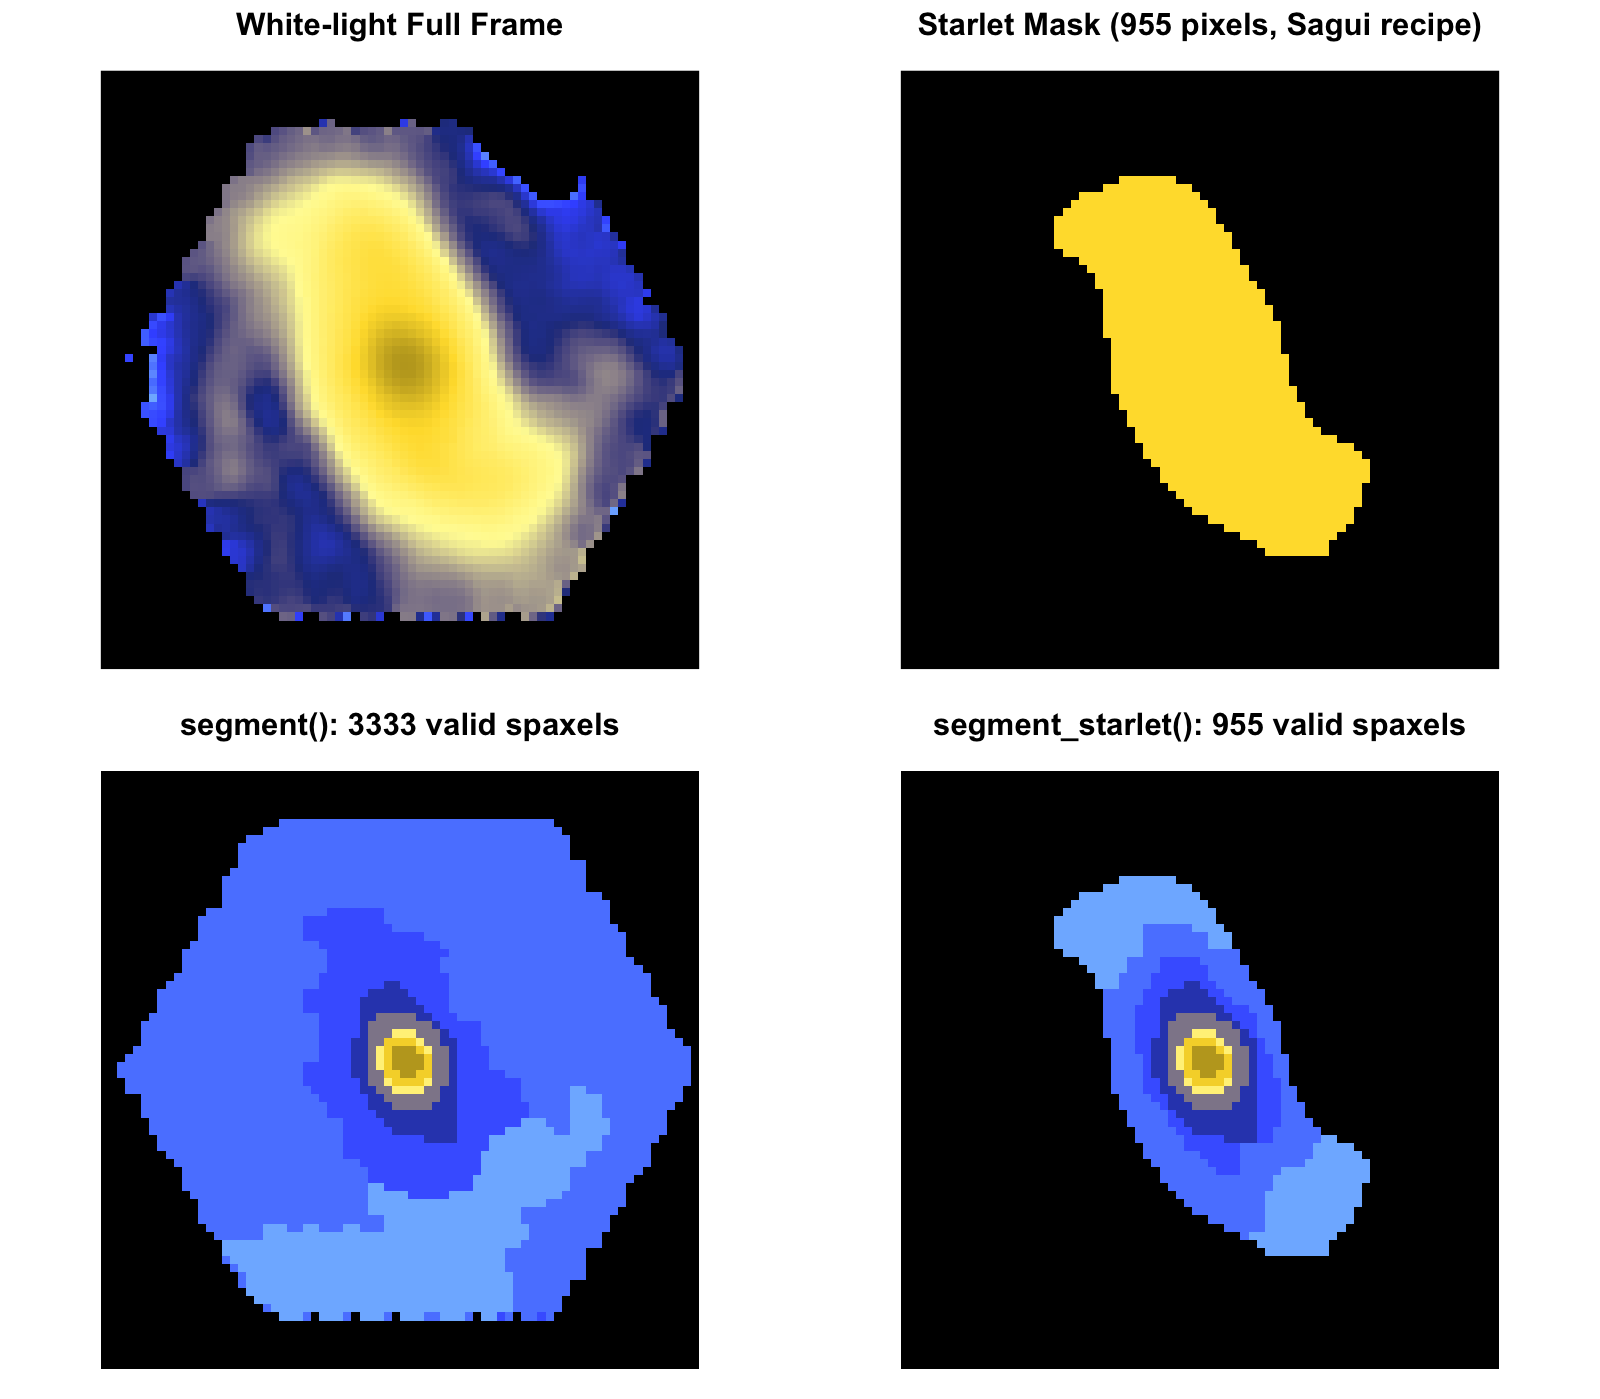
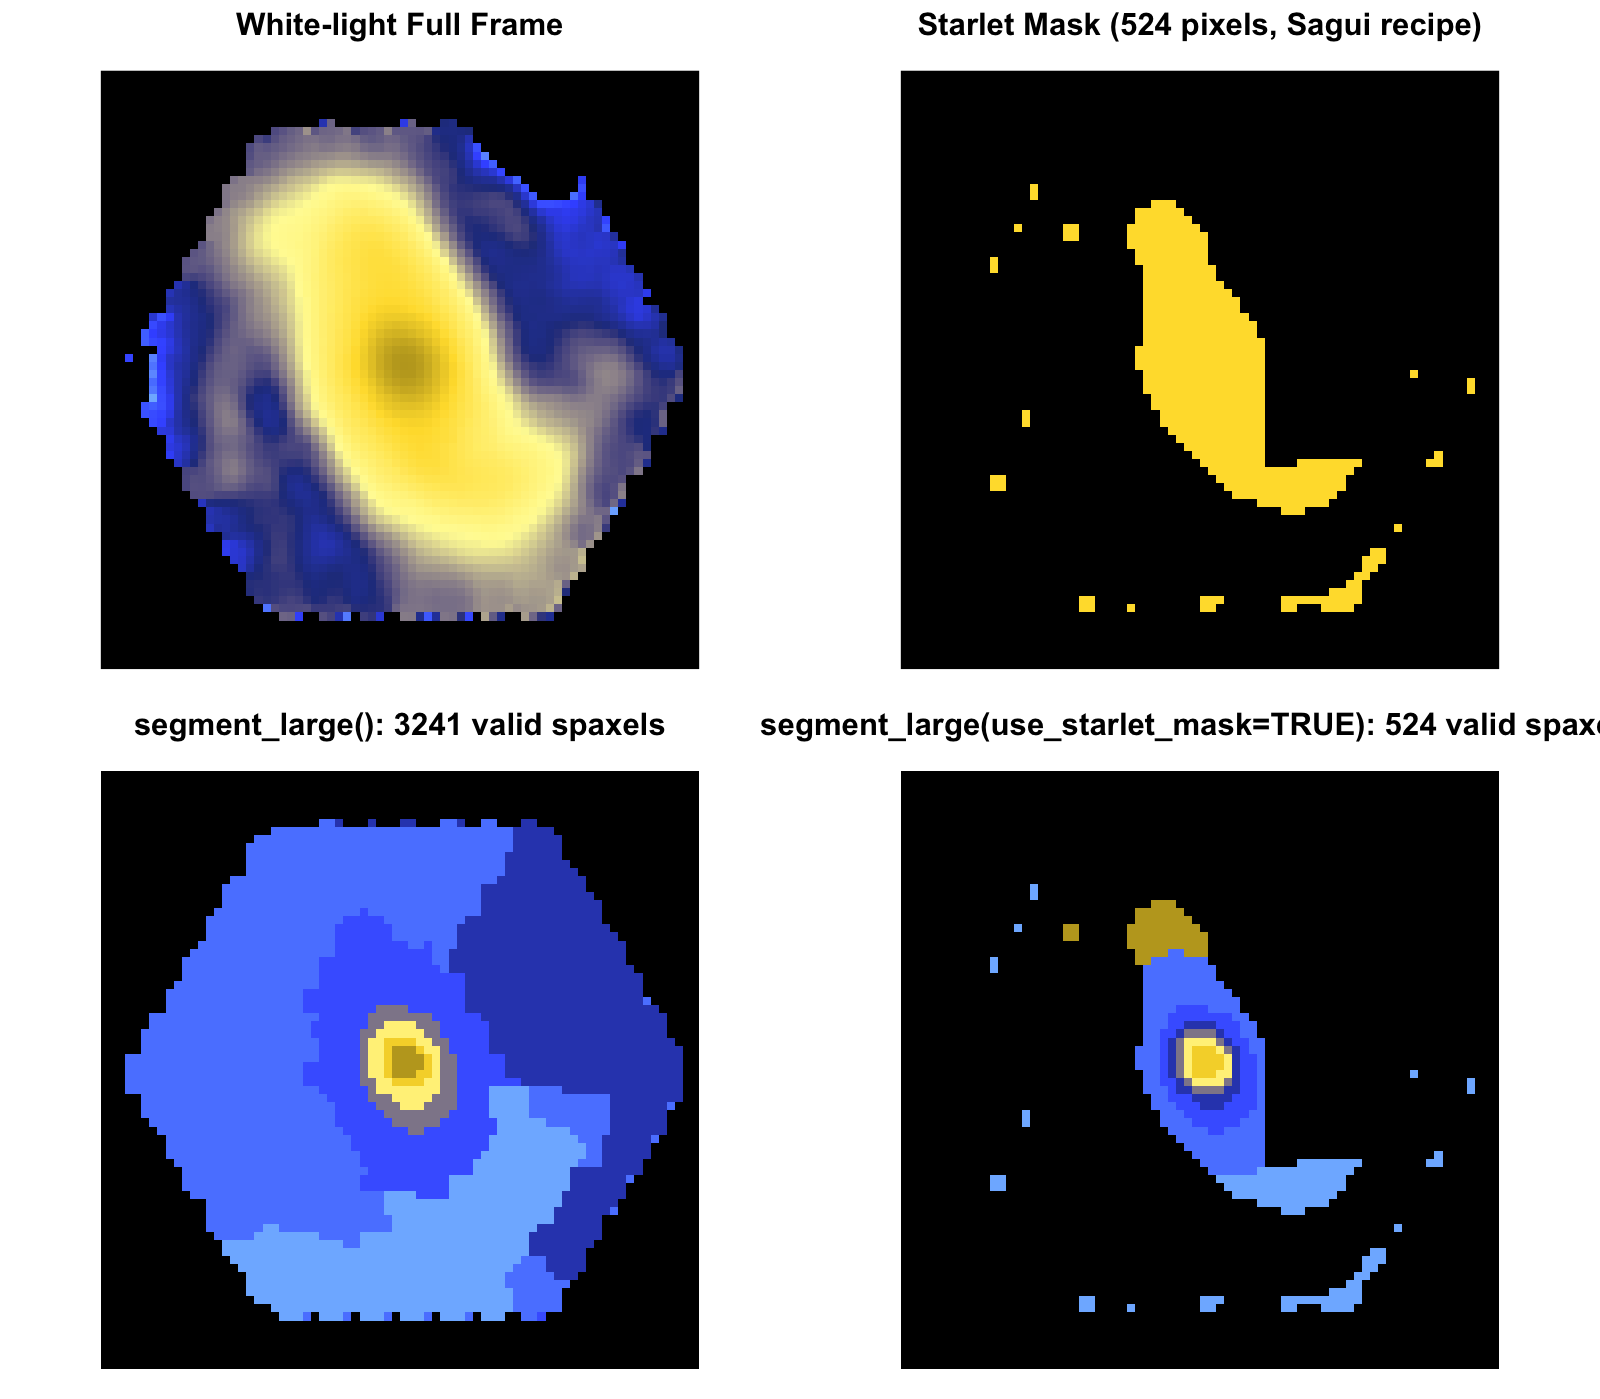
b

diff --git a/README.md b/README.md
@@ -194,7 +194,7 @@ seg <- segment_large(
   starlet_J = 5,
   starlet_scales = 2:5,
   include_coarse = FALSE,
-  denoise_k = 2.5,
+  denoise_k = 0,
   positive_only = TRUE,
   mask_mode = "na",
   knn_k = 100